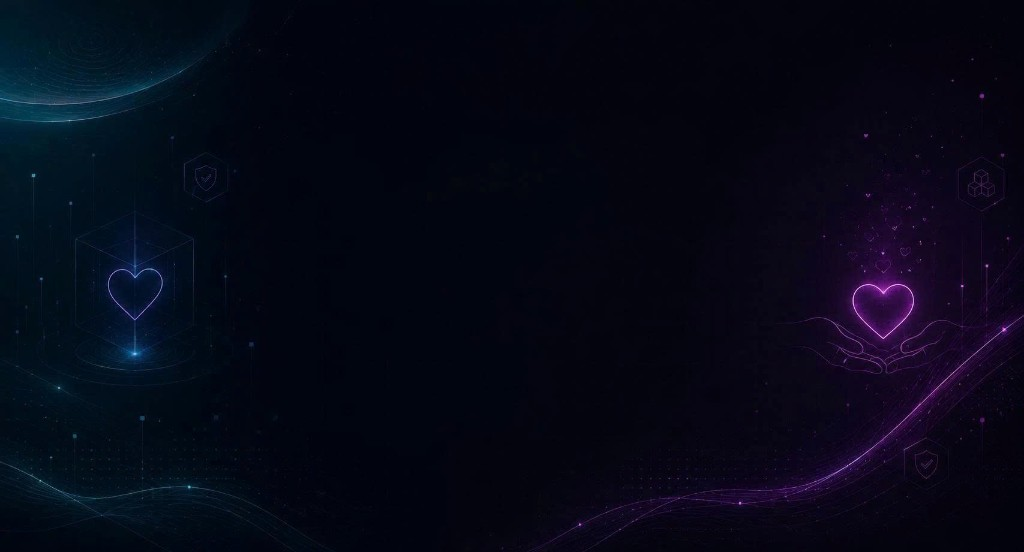
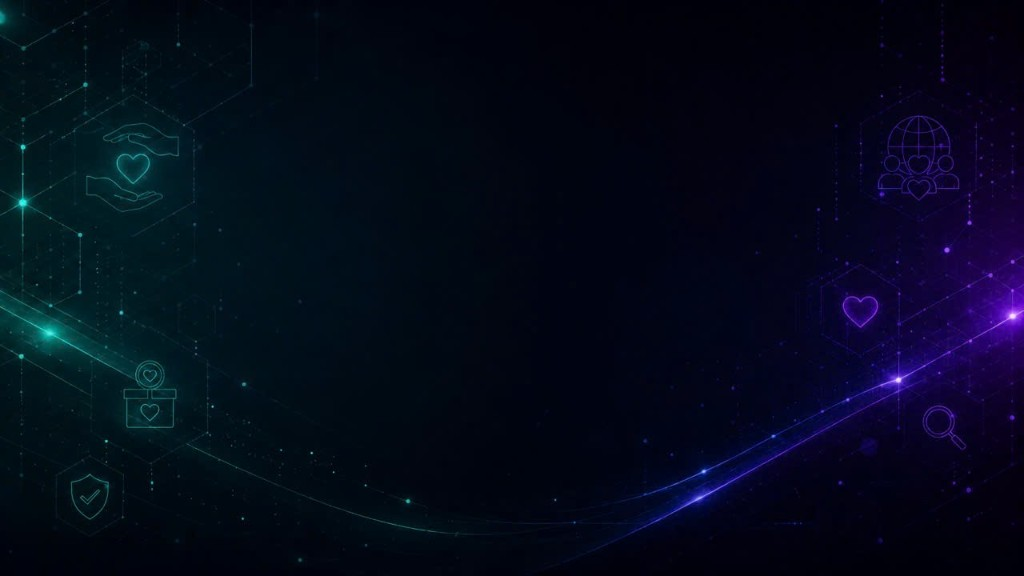
Update panel backgrounds and fix legal page light mode contrast.
Replace campaigns/panels artwork and use theme-aware text colors on the Legal page so content stays readable in light mode.

diff --git a/app/legal/page.tsx b/app/legal/page.tsx
@@ -23,7 +23,7 @@ function EtherscanLink({ address, label }: { address: string; label?: string }) 
       href={`${SEPOLIA_ETHERSCAN}/address/${address}`}
       target="_blank"
       rel="noopener noreferrer"
-      className="font-mono text-sm text-holo-mint transition-colors hover:text-white"
+      className="font-mono text-sm text-teal-700 transition-colors hover:text-teal-900 dark:text-holo-mint dark:hover:text-white"
     >
       {label ?? address}
     </a>
@@ -38,14 +38,14 @@ export default function LegalPage() {
       description="Important information about using transpachain.site on Ethereum Sepolia testnet."
       maxWidth="3xl"
     >
-      <GlassPanel holoBorder className="space-y-6 p-8 text-white/80">
+      <GlassPanel holoBorder className="space-y-6 bg-white p-8 text-slate-700 dark:bg-slate-900/95 dark:text-slate-300">
         <p>
-          TranspaChain is a <strong className="text-white">demonstration project on Ethereum Sepolia testnet</strong>.
+          TranspaChain is a <strong className="text-slate-900 dark:text-white">demonstration project on Ethereum Sepolia testnet</strong>.
           It is not a registered charity, money transmitter, or investment platform.
         </p>
 
         <section className="space-y-2">
-          <h2 className="text-xl font-semibold text-white">Testnet only</h2>
+          <h2 className="text-xl font-semibold text-slate-900 dark:text-white">Testnet only</h2>
           <ul className="list-disc space-y-1 pl-5">
             <li>Do not send mainnet ETH or real assets expecting utility or returns.</li>
             <li>Sepolia tokens have no monetary value.</li>
@@ -54,7 +54,7 @@ export default function LegalPage() {
         </section>
 
         <section className="space-y-2">
-          <h2 className="text-xl font-semibold text-white">Platform mechanics</h2>
+          <h2 className="text-xl font-semibold text-slate-900 dark:text-white">Platform mechanics</h2>
           <p>
             TranspaChain escrowes donations in ETH or USDC via the DonationVault contract. Organizations submit
             milestone evidence to IPFS; an admin reviews submissions before proposals become visible to donors.
@@ -65,7 +65,7 @@ export default function LegalPage() {
         </section>
 
         <section className="space-y-2">
-          <h2 className="text-xl font-semibold text-white">Not financial advice</h2>
+          <h2 className="text-xl font-semibold text-slate-900 dark:text-white">Not financial advice</h2>
           <p>
             Nothing on this site constitutes financial, legal, or tax advice. Donations are
             experimental smart-contract interactions.
@@ -73,7 +73,7 @@ export default function LegalPage() {
         </section>
 
         <section className="space-y-2">
-          <h2 className="text-xl font-semibold text-white">Impact NFTs</h2>
+          <h2 className="text-xl font-semibold text-slate-900 dark:text-white">Impact NFTs</h2>
           <p>
             Impact NFTs are transferable ERC-721 badges on Sepolia testnet. They are souvenirs of
             participation, not securities or guarantees of future value. Tier assignment (Bronze, Silver, Gold)
@@ -83,7 +83,7 @@ export default function LegalPage() {
         </section>
 
         <section className="space-y-2">
-          <h2 className="text-xl font-semibold text-white">Smart contracts</h2>
+          <h2 className="text-xl font-semibold text-slate-900 dark:text-white">Smart contracts</h2>
           <p>
             Contracts are provided as-is without warranty. A self-assessment (Slither) is
             documented in the project repository; no paid third-party audit is claimed for testnet
@@ -92,14 +92,14 @@ export default function LegalPage() {
         </section>
 
         <section className="space-y-3">
-          <h2 className="text-xl font-semibold text-white">Transparency &amp; contract addresses</h2>
+          <h2 className="text-xl font-semibold text-slate-900 dark:text-white">Transparency &amp; contract addresses</h2>
           <p>
             Verify all transactions on{" "}
             <a
               href={SEPOLIA_ETHERSCAN}
               target="_blank"
               rel="noopener noreferrer"
-              className="text-holo-mint transition-colors hover:text-white"
+              className="text-teal-700 transition-colors hover:text-teal-900 dark:text-holo-mint dark:hover:text-white"
             >
               Sepolia Etherscan
             </a>
@@ -107,9 +107,9 @@ export default function LegalPage() {
           </p>
           <ul className="space-y-3">
             {CONTRACTS.map((c) => (
-              <li key={c.name} className="rounded-xl border border-white/10 bg-white/[0.03] p-4">
-                <p className="font-semibold text-white">{c.name}</p>
-                <p className="mt-1 text-xs leading-relaxed text-white/60">{c.role}</p>
+              <li key={c.name} className="rounded-xl border border-slate-200 bg-slate-50 p-4 dark:border-white/10 dark:bg-white/[0.03]">
+                <p className="font-semibold text-slate-900 dark:text-white">{c.name}</p>
+                <p className="mt-1 text-xs leading-relaxed text-slate-500 dark:text-white/60">{c.role}</p>
                 <p className="mt-2">
                   <EtherscanLink address={c.address} />
                 </p>
@@ -123,7 +123,7 @@ export default function LegalPage() {
         </section>
 
         <p>
-          <Link href="/" className="text-holo-mint transition-colors hover:text-white">
+          <Link href="/" className="text-teal-700 transition-colors hover:text-teal-900 dark:text-holo-mint dark:hover:text-white">
             Back to home
           </Link>
         </p>
